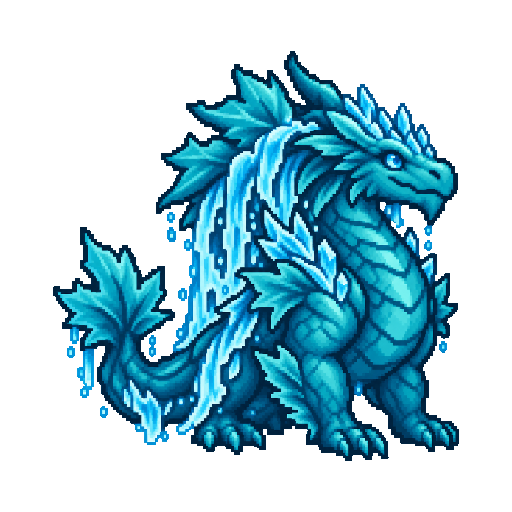
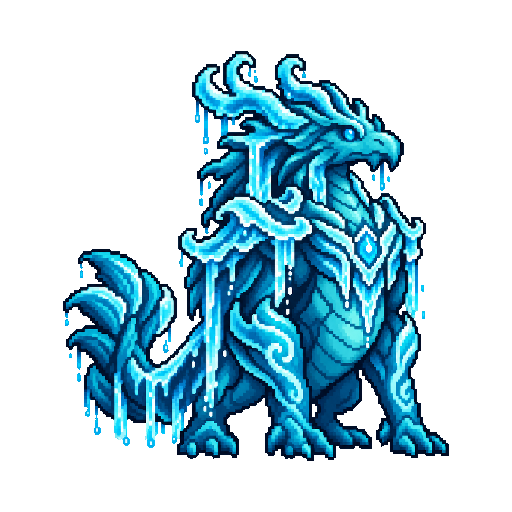
feat: evolved pictures remade with a direction each (cute, cool, a little eerie), 4 Codex runs at once
ユーザーの希望：しんかの絵を、その子の性格に合わせて かわいさ・かっこよさ・ぶきみさ の どれか1つを強めた進化に。
ぶきみは「ちょっと」（こわすぎない）、まず いまの10ぴき。
- 方向（targets.json の style）：かわいい＝ジャガイモスライム・砂丘キングキャメル・長城コロッサス、かっこいい＝ヒグマロード・
  越後雪鬼イエティ・大鳴門オロチロード・ナイアガラレヴィアタン・ラードラゴン、ちょっと ぶきみ＝恐山ファントムドラゴン・琵琶湖ビワッシー。
  方向ごとの ことばは run-codex.mjs の STYLES（ぶきみでも 顔は おだやか・血や きずや するどい歯は かかない）。
- 作り方の見直し：
  - 4本同時に（--jobs、いちばん長い列で 約8分。1本ずつなら 約33分）。
  - からだの変え方を 1ぴきずつ 手で書くのを やめ、Codex が しょうかい文と元の絵から考える（数を ふやしても 手間が ふえない）。
  - Codex に 大きさを かえさせない（取り込みで そろえる。前回は 1254px と 512px が まざっていた）。
  - 回ごとに 別フォルダ（できたものは とばすので 再開でき、1ぴきだけ やりなおせる）。
- README を新しい手順に。

確かめたこと
- Codex：10ぴき すべて保存（92〜293秒）。元の絵と並べて目で確認し、ジャガイモスライムだけ「かわいいが 進化に見えにくい」
  ので作りなおし（花・リボン・子どもの じゃがいもが ついた）。ほかの9ひきは 方向どおり、こわい顔は なし。
- 取り込み：10まいとも 1254px → 512px WebP、合計 1.6MB。gotomon-minigames 431件 合格、ビルドOK、プレビューで 絵が配られることを確認。

diff --git a/scripts/evolution/README.md b/scripts/evolution/README.md
@@ -1,14 +1,18 @@
 # 進化の絵（Codex で作る）
 
-まず ためしに10ぴき（`targets.json`：ジャガイモスライムと 各地方のボス9ひき）。
+`targets.json` に 1ぴきずつ `id` と `style`（方向）を書く。方向は その子の性格に合わせて 1つ：
+`cute`（かわいさ）・`cool`（かっこよさ）・`eerie`（ちょっと ぶきみ。こわすぎない）。からだの変え方は書かない
+（Codex が しょうかい文と元の絵から考える）。方向ごとの ことばは `run-codex.mjs` の `STYLES`、共通の指示は `prompt.tpl.txt`。
 
 1. 指示文の確認（Codex は呼ばない）
-   `node --experimental-default-type=module scripts/evolution/run-codex.mjs <作業フォルダ> --dry`
-2. Codex に作らせる（1ぴきずつ `codex exec`、元の絵を添付、画像生成ツールで `<id>_evo.png` を保存）
-   `node --experimental-default-type=module scripts/evolution/run-codex.mjs <作業フォルダ> HKD-E01`（1ぴきだけ）
-   `node --experimental-default-type=module scripts/evolution/run-codex.mjs <作業フォルダ>`（のこり全部。できたものは とばす）
-   Codex の答えは `<作業フォルダ>/<id>/codex.log`。
-3. ゲームに入れる（背景が透明か確かめ、512x512 の WebP に そろえて `public/assets/images/monsters/evo/<id>.webp`）
-   `python scripts/evolution/import-images.py <作業フォルダ>`（入れなおすときは `--force`）
+   `node --experimental-default-type=module scripts/evolution/run-codex.mjs C:/kanji-evo/<回> --dry`
+2. Codex に作らせる（1ぴき1回の `codex exec`、元の絵を添付。4本同時、`--jobs=N` で かえられる。1ぴき 2〜5分）
+   `node --experimental-default-type=module scripts/evolution/run-codex.mjs C:/kanji-evo/<回>`（できたものは とばすので、とちゅうから再開できる）
+   1ぴきだけ やりなおすときは その id の フォルダを消して `... C:/kanji-evo/<回> <id>`。新しい回は 新しいフォルダに。
+   Codex の答えは `<回>/<id>/codex.log`。
+3. 目で確かめる（元の絵と並べた シート）
+   `python scripts/evolution/compare.py C:/kanji-evo/<回> <シート.png> <id> ...`
+4. ゲームに入れる（背景が透明か確かめ、512x512 の WebP に そろえて `public/assets/images/monsters/evo/<id>.webp`、`evolvedIds.js` を作りなおす）
+   `python scripts/evolution/import-images.py C:/kanji-evo/<回>`（入れかえるときは `--force`）
 
-背景が透明でない絵は とばして知らせる。顔が こわい・元のキャラに見えない絵は 2. を その id だけ もう一度。
+Claude からは 2. の形の コマンドだけ 許可してある（`.claude/settings.local.json`）。パイプや `cd` を つけると 許可の形から外れる。

diff --git a/docs/progress-handoff.md b/docs/progress-handoff.md
@@ -3,8 +3,8 @@
 > ## 次回はここから（2026-10-02 最終更新）
 >
 > ### 再開するときは（この順で）
-> 1. **状態**：ここまで すべて本番公開済み（最新 PR #73、`main` = `f8b91dc`、Vercel 本番 yomitabi.gamanavi.com）。ブランチ
->    `feature/content-bank-120` は main と同じ中身＋この資料の更新コミットだけ（未push）。`git log --oneline -3` で確認。
+> 1. **状態**：PR #73 まで本番公開済み（`main` = `f8b91dc`）。そのあと しんかの絵10まいを「方向つき」で作りなおして
+>    **ローカルにコミット済み・未push・未公開**。ユーザーが「PRを作ってマージして本番に出して」と言ったら出す。
 > 2. **ゴトモン拡張は5弾とも実装済み**（タイプ・わざとパーティ・配合・すがた・しんか）。次の候補：しんかの絵を ふやす
 >    （`scripts/evolution/targets.json` に足して `run-codex.mjs` → `compare.py` で目で確認 → `import-images.py`。手順は `scripts/evolution/README.md`）、
 >    先生チェック、Firestoreルール（最優先の未決定事項）。
@@ -22,6 +22,8 @@
 > （シール帳の「すがた」で しんか／もどす。`companions[id].look.evolve`）。いまは10ぴき：ジャガイモスライムと 各地方のボス9ひき
 > （九州の大宰府天神ロードは 実在の人物がもとなので外した）。絵は `public/assets/images/monsters/evo/<id>.webp`、一覧 `evolvedIds.js` は取り込みで自動生成。
 > 指示文は「ひと目で進化と分かる・1.3倍・新しい部分2つ以上・顔はやさしく・背景すけ」（1回目は 大きさだけの小さな変化だったので強めた）。
+> 2回目（未公開）：ユーザーの希望で 1ぴき1つの方向（かわいい3・かっこいい5・ちょっとぶきみ2、`targets.json` の style）。
+> 作り方も見直した：4本同時（約33分→約8分）・からだの変え方は書かず Codex が考える・Codex に大きさを かえさせない・回ごとに別フォルダ。
 >
 > **（同じ PR #73）**: ゴトモン拡張の第4弾「すがた（色ちがい・かがやき）」（`companionLooks.js`）。
 > 色ちがい＝その子の金シール10まいで ひらく（銀は数えない）、絵の色を その子ごとに決まった角度（5通り、idから計算）で ずらす。
